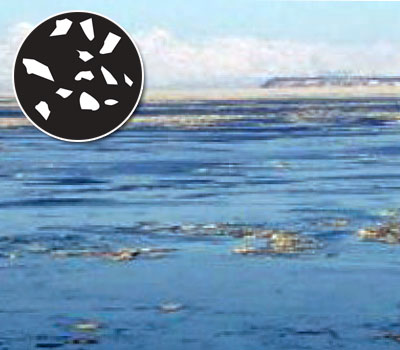
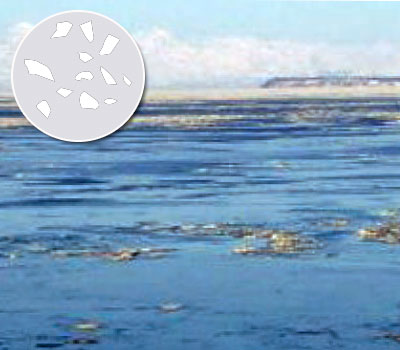
Edit sea ice concentration images with new ice scheme colors. Edit download page text and styles

Changed region(s): [[0.03, 0.0286, 0.39, 0.4]]

diff --git a/src/less/style.less b/src/less/style.less
@@ -226,6 +226,33 @@ blockquote {
 	}
 }
 
+// Used in download.jade
+p {
+	a.btn.btn-warning {
+	-webkit-box-shadow: 3px 3px 3px rgba(0, 0, 0, 0.5);
+	-moz-box-shadow: 3px 3px 3px rgba(0, 0, 0, 0.5);
+	-o-box-shadow: 3px 3px 3px rgba(0, 0, 0, 0.5);
+	box-shadow: 3px 3px 3px rgba(0, 0, 0, 0.5);
+	-webkit-transition: all 0.3s ease-in-out;
+	-moz-transition: all 0.3s ease-in-out;
+	-o-transition: all 0.3s ease-in-out;
+	transition: all 0.3s ease-in-out;
+	border: 1px solid @brand-info;
+
+	}
+	a:hover, a:focus {
+		-webkit-transform-origin: center;
+		-moz-transform-origin: center;
+		-o-transform-origin: center;
+		-webkit-transition-origin: center;
+		transition-origin: center;
+		-webkit-transform: scale(1.07);
+		-moz-transform: scale(1.07);
+		-o-transform: scale(1.07);
+		transform: scale(1.07);
+	}
+}
+
 // Used in glossary.jade
 #ice-carousel.carousel.slide.pull-right {
 	margin-top: 0;
